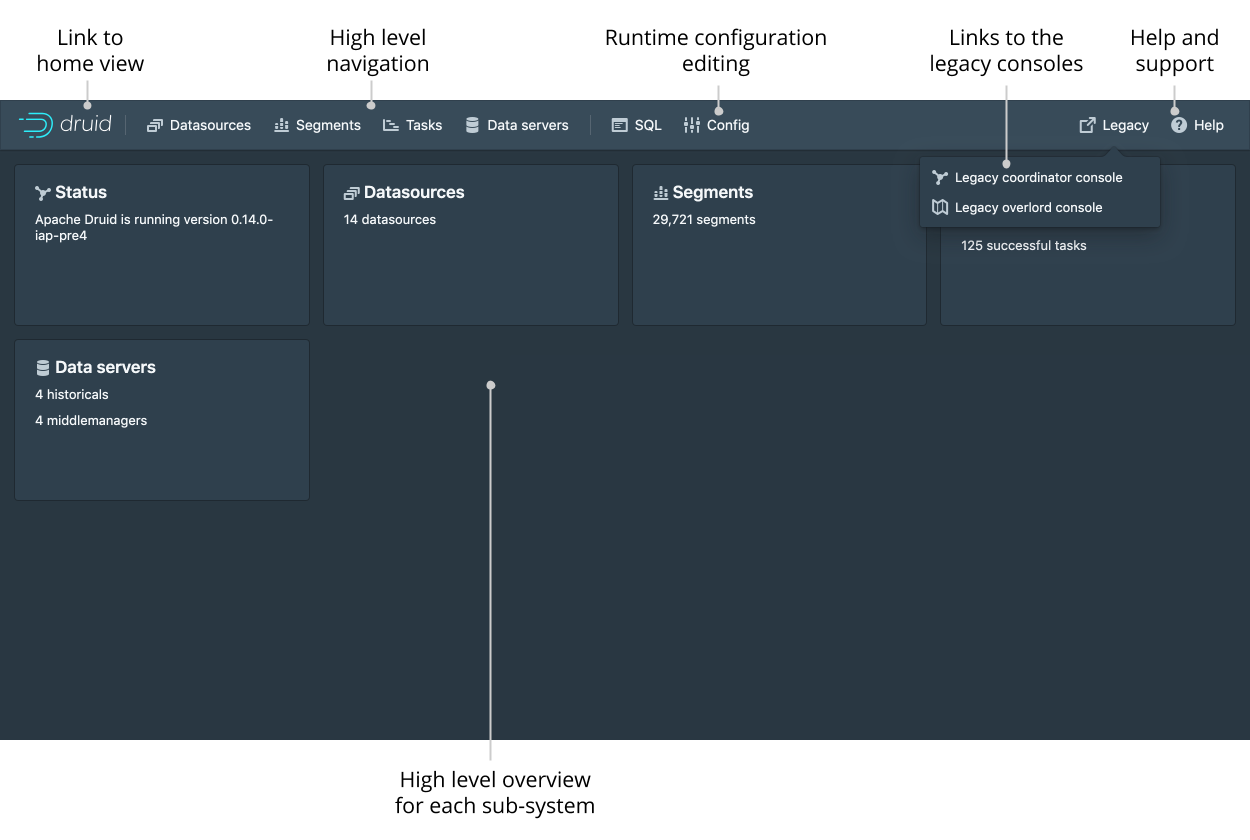
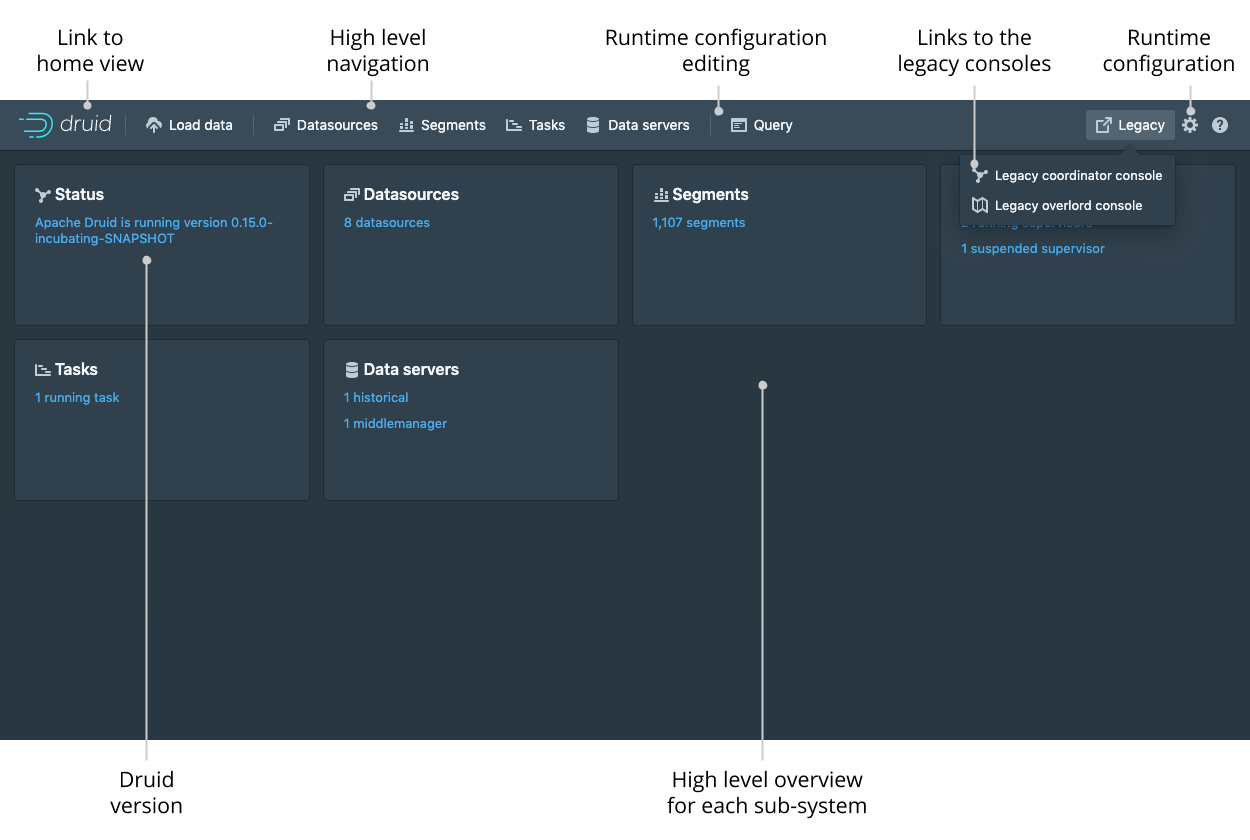
Update Druid Console docs for 0.15.0 (#7697)
* Update Druid Console docs for 0.15.0

* SQL -> query

* added links and fix typos

diff --git a/docs/content/operations/druid-console.md b/docs/content/operations/druid-console.md
@@ -45,49 +45,71 @@ The home view provides a high level overview of the cluster. Each card is clicka
 
 ![home-view](./img/01-home-view.png)
 
+## Data loader
+
+The data loader view allows you to load data by building an ingestion spec with a step-by-step wizard. 
+
+![data-loader-1](./img/02-data-loader-1.png)
+
+After picking the source of your data just follow the series for steps that will show you incremental previews of the data as it will be ingested.
+After filling in the required details on every step you can navigate to the next step by clicking the `Next` button.
+You can also freely navigate between the steps from the top navigation.
+
+Navigating with the top navigation will leave the underlying spec unmodified while clicking the `Next` button will attempt to fill in the subsequent steps with appropriate defaults.
+
+![data-loader-2](./img/03-data-loader-2.png)
+
 ## Datasources
 
 The datasources view shows all the currently enabled datasources. From this view you can see the sizes and availability of the different datasources. You can edit the retention rules and drop data (as well as issue kill tasks).
 Like any view that is powered by a DruidSQL query you can click “Go to SQL” to run the underlying SQL query directly.
 
-![datasources](./img/02-datasources.png)
+![datasources](./img/04-datasources.png)
 
 You can view and edit retention rules to determine the general availability of a datasource.
 
-![retention](./img/03-retention.png)
+![retention](./img/05-retention.png)
 
 ## Segments
 
 The segment view shows every single segment in the cluster. Each segment can be expanded to provide more information. The Segment ID is also conveniently broken down into Datasource, Start, End, Version, and Partition columns for ease of filtering and sorting.
 
-![segments](./img/04-segments.png)
+![segments](./img/06-segments.png)
 
 ## Tasks and supervisors
 
 The task view is also the home of supervisors. From this view you can check the status of existing supervisors as well as suspend and resume them. You can also submit new supervisors by entering their JSON spec.
 
-![tasks-1](./img/05-tasks-1.png)
+![supervisors](./img/07-supervisors.png)
 
 The tasks table allows you see the currently running and recently completed tasks. From this table you can monitor individual tasks and also submit new tasks by entering their JSON spec.
+To make managing a lot of tasks more accessible, you can group the tasks by their type, datasource, or status to make navigation easier.
 
-![tasks-2](./img/06-tasks-2.png)
+![tasks](./img/08-tasks.png)
 
-Since there will likely be a lot of tasks, you can group the tasks by their type, datasource, or status to make navigation easier.
+Click on the magnifying glass for any task to see more detail about it.
 
-![tasks-3](./img/07-tasks-3.png)
+![tasks-status](./img/09-task-status.png)
 
 ## Servers
 
 The data servers tab lets you see the current status of the historical nodes and MiddleManager (indexer) processes. Note that currently only historical nodes that are actively serving segments will be shown in this view.
 
-![servers](./img/08-servers.png)
+![servers](./img/10-servers.png)
 
-## SQL
+## Query
 
-The SQL view lets you issue direct DruidSQL queries and display the results as a simple table.
+The query view lets you issue [DruidSQL](../querying/sql.html) queries and display the results as a simple table.
 
-![sql](./img/09-sql-1.png)
+![query-sql](./img/11-query-sql.png)
 
-The SQL view can also issue queries in Druid's native query format, which is JSON over HTTP. To send a native Druid query, you must start your query with { and in the format of JSON.
+The query view can also issue queries in Druid's [native query format](../querying/querying.html), which is JSON over HTTP.
+To send a native Druid query, you must start your query with `{` and format it as JSON.
 
-![sql](./img/10-sql-2.png)
+![query-rune](./img/12-query-rune.png)
+
+## Lookups
+
+You can create and edit query time lookups via the lookup view.
+
+![lookups](./img/13-lookups.png)
